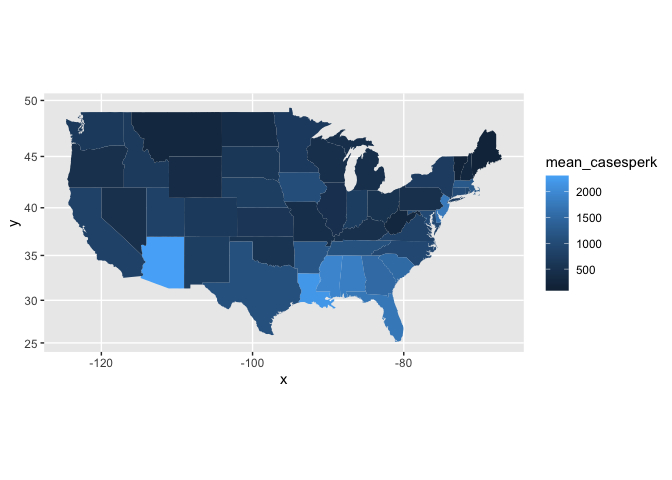
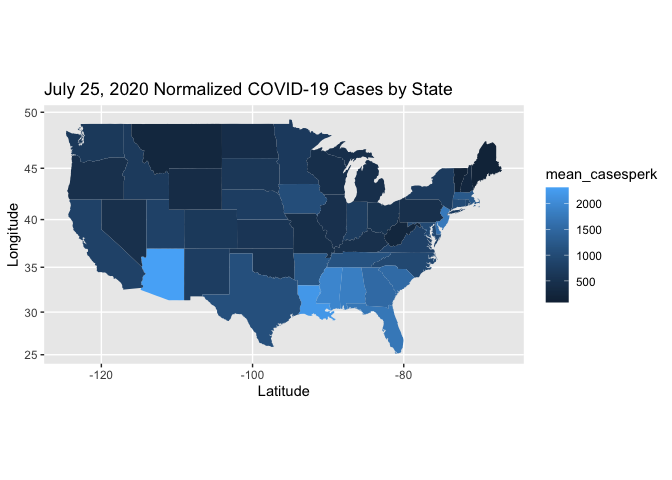
Added deaths map

diff --git a/challenges/c06-covid19-assignment.md b/challenges/c06-covid19-assignment.md
@@ -629,7 +629,7 @@ Questions:
 
 ``` r
 # Determine mean for each state on a given day
-df_states <-
+df_states_2020_07_25 <-
   df_normalized %>%
   filter(date == "2020-07-25") %>%
   mutate(region = tolower(state)) %>%
@@ -640,7 +640,7 @@ df_states <-
     ## `summarise()` ungrouping output (override with `.groups` argument)
 
 ``` r
-df_states
+df_states_2020_07_25
 ```
 
     ## # A tibble: 55 x 3
@@ -675,14 +675,34 @@ us <- map_data("state")
 ```
 
 ``` r
-df_states %>%
+df_states_2020_07_25 %>%
   ggplot() +
   geom_map(aes(map_id = region, fill = mean_casesperk), map = us) +
   expand_limits(x = us$long, y = us$lat) +
-  coord_map()
+  coord_map() +
+  labs(
+    title = "July 25, 2020 Normalized COVID-19 Cases by State",
+    x = "Latitude",
+    y = "Longitude"
+  )
 ```
 
 ![](c06-covid19-assignment_files/figure-gfm/case_map_7_25-1.png)<!-- -->
+
+``` r
+df_states_2020_07_25 %>%
+  ggplot() +
+  geom_map(aes(map_id = region, fill = mean_deathsperk), map = us) +
+  expand_limits(x = us$long, y = us$lat) +
+  coord_map() +
+  labs(
+    title = "July 25, 2020 Normalized COVID-19 Deaths by State",
+    x = "Latitude",
+    y = "Longitude"
+  ) 
+```
+
+![](c06-covid19-assignment_files/figure-gfm/death_map_7_25-1.png)<!-- -->
 
 # Notes
 
